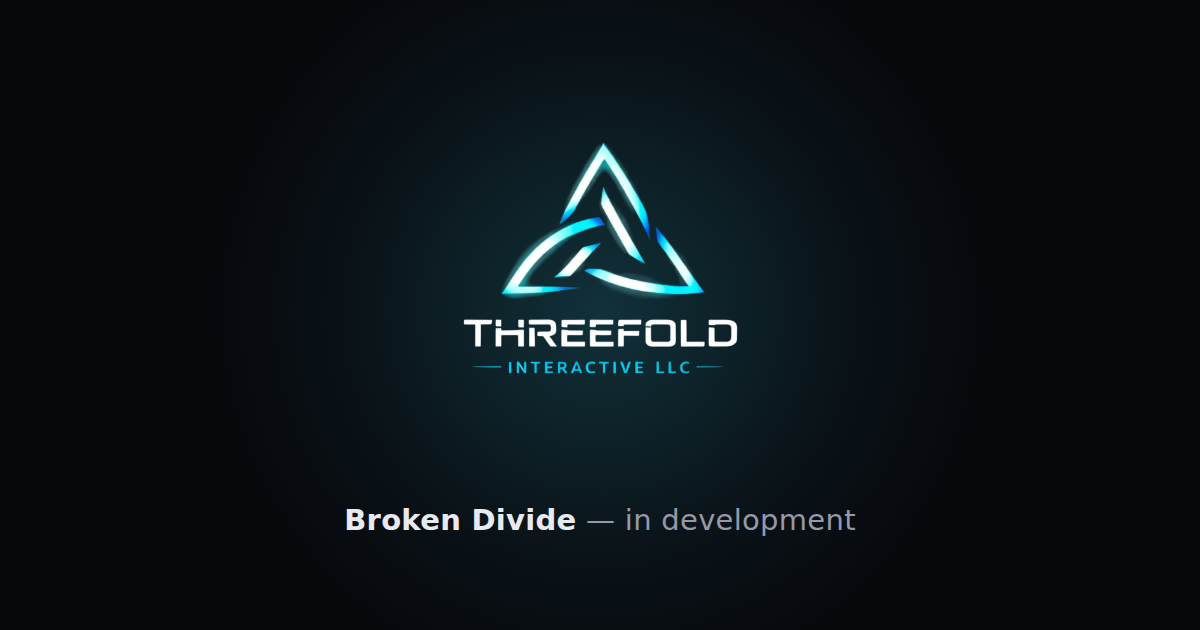
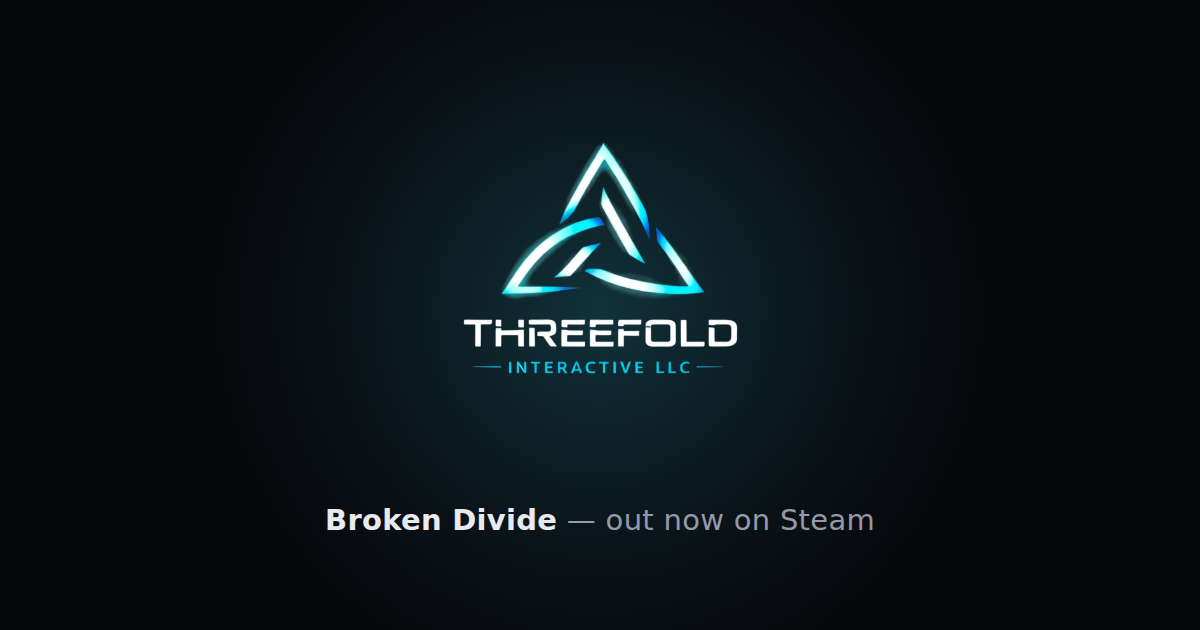
Update the site for Broken Divide's release
The game shipped, which made a lot of the site factually wrong. Removes
every pre-release reference:

- Games page: "Nothing released yet" becomes "Our first game is out", the
  amber "In development" tag becomes a cyan "Out now", and the call to
  action changes from "Wishlist on Steam" to "Get it on Steam" — asking
  people to wishlist a released game wastes the click.
- Press section no longer says "once we've announced".
- Home and games meta descriptions now say the game is out on Steam.
- The social share card, which read "Broken Divide — in development", is
  regenerated to "out now on Steam".

Confirms Ohio as governing law in the terms, which was previously an
assumption drawn from the studio's phone number.

Re-frames the privacy policy's maintainer note: its open items were meant
to be settled before launch and weren't, so they are live inaccuracies
now rather than future work. The unnamed analytics and crash-reporting
vendors matter more with real players sending real data.

Verified: no pre-release wording remains in any page, all routes return
200.

Claude-Session: https://claude.ai/code/session_011nFbWRgVx9Qwu5ng1w32Zm

Changed region(s): [[0.2467, 0.7841, 0.74, 0.8444]]

diff --git a/games.html b/games.html
@@ -4,14 +4,14 @@
   <meta charset="UTF-8" />
   <meta name="viewport" content="width=device-width, initial-scale=1.0" />
   <title>Games — Threefold Interactive LLC</title>
-  <meta name="description" content="Broken Divide and other games in development at Threefold Interactive LLC, an independent game studio." />
+  <meta name="description" content="Broken Divide, out now on Steam, from Threefold Interactive LLC — an independent game studio." />
   <link rel="canonical" href="https://threefoldinteractive.com/games.html" />
   <meta name="theme-color" content="#07080c" />
 
   <meta property="og:type" content="website" />
   <meta property="og:site_name" content="Threefold Interactive LLC" />
   <meta property="og:title" content="Games — Threefold Interactive LLC" />
-  <meta property="og:description" content="Broken Divide and other games in development at Threefold Interactive LLC, an independent game studio." />
+  <meta property="og:description" content="Broken Divide, out now on Steam, from Threefold Interactive LLC — an independent game studio." />
   <meta property="og:url" content="https://threefoldinteractive.com/games.html" />
   <meta property="og:image" content="https://threefoldinteractive.com/assets/og-image.png" />
   <meta property="og:image:width" content="1200" />
@@ -44,14 +44,14 @@
       <div class="wrap">
         <h1>Games</h1>
         <p class="lede">
-          Nothing released yet. Here's what's in progress.
+          Our first game is out.
         </p>
 
         <div class="status-card" style="margin-top: 34px">
-          <span class="tag">In development</span>
+          <span class="tag tag-live">Out now</span>
           <h3>Broken Divide</h3>
           <div class="actions">
-            <a class="btn btn-primary" href="https://store.steampowered.com/app/4525630/Broken_Divide/" target="_blank" rel="noopener noreferrer" aria-label="Wishlist Broken Divide on Steam (opens in a new tab)">Wishlist on Steam</a>
+            <a class="btn btn-primary" href="https://store.steampowered.com/app/4525630/Broken_Divide/" target="_blank" rel="noopener noreferrer" aria-label="Get Broken Divide on Steam (opens in a new tab)">Get it on Steam</a>
           </div>
         </div>
 
@@ -82,8 +82,8 @@
       <div class="wrap prose">
         <h2>For press</h2>
         <p>
-          We're happy to provide assets, review builds, and interviews once we've
-          announced. Reach us at
+          We're happy to provide assets, review copies, and interviews. Reach us
+          at
           <a href="mailto:admin@threefoldinteractive.com">admin@threefoldinteractive.com</a>
           and we'll get back to you.
         </p>

diff --git a/privacy.html b/privacy.html
@@ -25,11 +25,12 @@
 </head>
 <!--
   ═══════════════════════════════════════════════════════════════════════════
-  MAINTAINER NOTE — READ BEFORE SHIPPING A GAME
+  MAINTAINER NOTE — OVERDUE, THE GAME HAS SHIPPED
 
-  This policy now describes what Broken Divide collects. Three things are
-  still UNCONFIRMED and were written from assumptions — fix them before
-  launch:
+  Broken Divide is released and collecting data from real players right
+  now, so this policy is operative. The three items below were written from
+  assumptions and were meant to be resolved before launch. They weren't.
+  They are now live inaccuracies, not future work:
 
   1. NAME THE PROVIDERS. The analytics and crash-reporting sections describe
      these services generically because the actual vendors are unknown.
@@ -44,12 +45,12 @@
   3. WHERE CLOUD SAVES LIVE. This assumes Steam Cloud. If saves go to your
      own backend, say that instead — it changes who holds the data.
 
-  Also before launch:
-  - Update the "Last updated" date.
-  - Make this match the privacy disclosures on the Steam store page.
-  - Work out how a deletion request interacts with leaderboards. Removing
-     someone's entries is a real operational job, and the support page
-     promises 30 days.
+  Also now live and worth checking:
+  - Confirm this matches the privacy disclosures on the Steam store page.
+  - A deletion request has to remove leaderboard and raid entries too. The
+     support page promises 30 days, and that clock is running from the
+     first request, which can arrive any day now.
+  - Update the "Last updated" date whenever the text changes.
 
   This is a starting template, not legal advice. Public leaderboards plus a
   backend holding player data plus EU players is genuinely the point where a

diff --git a/terms.html b/terms.html
@@ -25,26 +25,24 @@
 </head>
 <!--
   ═══════════════════════════════════════════════════════════════════════════
-  MAINTAINER NOTE — READ BEFORE LAUNCH
+  MAINTAINER NOTE
 
-  This is a starting draft, not legal advice. Four things were written from
-  assumptions and need confirming:
+  Broken Divide is released, so these terms are live and in force.
 
-  1. GOVERNING LAW SAYS OHIO. That was inferred from the studio's 937 phone
-     number, nothing more. If the LLC is registered in another state, fix
-     the "Governing law" section — naming the wrong state weakens the whole
-     clause.
+  Governing law is Ohio — confirmed by the studio, not assumed.
 
-  2. NO ARBITRATION CLAUSE. Deliberately left out. Binding arbitration and
+  This is a starting draft, not legal advice. Three things remain open:
+
+  1. NO ARBITRATION CLAUSE. Deliberately left out. Binding arbitration and
      class-action waivers are a real strategic choice with real tradeoffs,
      and are unenforceable or restricted in several places. Decide with a
      lawyer rather than inheriting one from a template.
 
-  3. NO BUSINESS ADDRESS. Some consumer-protection regimes expect a trading
+  2. NO BUSINESS ADDRESS. Some consumer-protection regimes expect a trading
      address in published terms. Only email and phone are listed. Add the
      LLC's registered address if you want to be safe in the EU/UK.
 
-  4. AGE THRESHOLD IS 13, matching the privacy policy and Steam. If a game
+  3. AGE THRESHOLD IS 13, matching the privacy policy and Steam. If a game
      is ever aimed younger, both documents change together.
 
   Also: if Broken Divide ships on mobile, check whether Apple's or Google's

diff --git a/index.html b/index.html
@@ -4,14 +4,14 @@
   <meta charset="UTF-8" />
   <meta name="viewport" content="width=device-width, initial-scale=1.0" />
   <title>Threefold Interactive LLC — Independent Game Studio</title>
-  <meta name="description" content="Threefold Interactive LLC is an independent game development studio. Broken Divide is in development." />
+  <meta name="description" content="Threefold Interactive LLC is an independent game development studio. Our first game, Broken Divide, is out now on Steam." />
   <link rel="canonical" href="https://threefoldinteractive.com/" />
   <meta name="theme-color" content="#07080c" />
 
   <meta property="og:type" content="website" />
   <meta property="og:site_name" content="Threefold Interactive LLC" />
   <meta property="og:title" content="Threefold Interactive LLC — Independent Game Studio" />
-  <meta property="og:description" content="An independent game development studio. Broken Divide is in development." />
+  <meta property="og:description" content="An independent game development studio. Our first game, Broken Divide, is out now on Steam." />
   <meta property="og:url" content="https://threefoldinteractive.com/" />
   <meta property="og:image" content="https://threefoldinteractive.com/assets/og-image.png" />
   <meta property="og:image:width" content="1200" />

diff --git a/assets/styles.css b/assets/styles.css
@@ -334,6 +334,12 @@ section + section { border-top: 1px solid var(--border); }
   background: currentColor;
 }
 
+/* Released, as opposed to the amber in-development state. */
+.tag-live {
+  color: var(--accent);
+  background: color-mix(in srgb, var(--accent) 14%, transparent);
+}
+
 /* ---------- contact list ---------- */
 
 .contact-list {

diff --git a/README.md b/README.md
@@ -10,7 +10,7 @@ file, commit, and it's live.
 
 ```
 index.html        Home
-games.html        Games (currently: first title in development)
+games.html        Games (Broken Divide, released)
 support.html      Support, refunds, data deletion — the app stores link here
 privacy.html      Privacy policy — the app stores link here too
 terms.html        Terms of service / EULA
@@ -58,15 +58,14 @@ pointing the pages at the originals.
 
 `games.html` has a commented-out card template near the top of the games
 section. Copy it, fill in the title, description, and store links, and remove
-the "in development" status card.
+the status card.
 
-### Before shipping a game
+### Legal pages
 
-`privacy.html` opens with a maintainer comment listing what has to be updated
-before a first release — the collected-data section, the third-party SDK list,
-and the children's-privacy section. The policy as written is accurate only
-while no games are published. It also needs to match the Data Safety form on
-Google Play and the App Privacy answers on the App Store.
+`privacy.html` and `terms.html` each open with a maintainer comment listing
+what is still assumed rather than confirmed. Broken Divide has shipped, so
+both documents are live and in force — those comments are open items, not
+future work. Neither has been reviewed by a lawyer.
 
 ## Local preview
 
